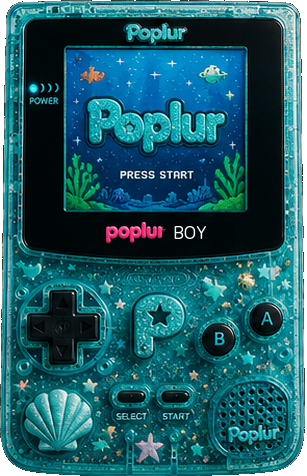
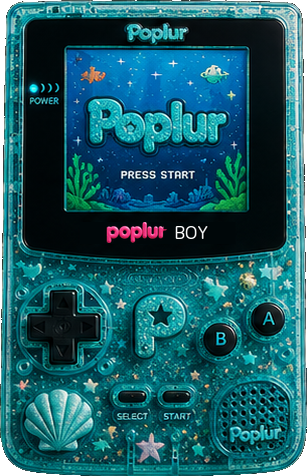
Arcade: haptics on colour change, press feedback, power LED, tighter crop
playPop() on a colour pick and on every control press -- the house
helper, which carries popHaptic() inside it: navigator.vibrate on
Android and the native bridge on iOS, where Safari ignores the web API.
Presses use a lower volume because a player hits these many times a
second.

Power LED overlays the shell's own painted dot and flashes while booting,
then unmounts with the boot. Six beats via steps(), NOT `infinite` -- the
thermal gate allows none, and a light pulsing forever is exactly the idle
work it exists to catch. Its geometry lives in RetroShellSkin beside the
controls so it tracks the art rather than being pinned in the renderer.

Shells re-cropped to their alpha bbox now that the surround is
transparent, so the device reaches the frame edge instead of sitting
inside its own margin.

KNOWN INCOMPLETE, see poplur-arcade-handoff.md:
 - the LED centre is measured but its radius is still by eye; it does not
   sit exactly on the painted dot yet;
 - some shells still show a neighbour's colour at an edge -- the slice is
   better than it was but not clean on all ten;
 - the boot should be an ANIMATED version of the shell's own painted
   splash, not a black panel that replaces it.

diff --git a/src/ArcadeScreen.tsx b/src/ArcadeScreen.tsx
@@ -9,6 +9,7 @@ import {
   type RetroControlId,
 } from './retroShellSkin'
 import type { RetroButton } from './retroEmulator'
+import { playPop } from './pop'
 import styles from './ArcadeScreen.module.css'
 
 // Poplur Arcade — the shell player.
@@ -129,6 +130,10 @@ export default function ArcadeScreen() {
 
   /** Re-boot when the shell changes: a new handheld powers on. */
   const pickSkin = useCallback((id: string) => {
+    // The house pop: sound plus popHaptic(), which is navigator.vibrate on
+    // Android and the native bridge on iOS (Safari ignores the web API). Same
+    // feedback the rest of Poplur gives for a deliberate pick.
+    playPop()
     setSkinId(id)
     chimeOwed.current = false
     setBoot('drop')
@@ -174,6 +179,10 @@ export default function ArcadeScreen() {
     const hit = buttonsAt(e.clientX, e.clientY)
     if (!hit.length) return
     e.preventDefault()
+    // Button feedback: the house pop, quieter than a menu tap because a player
+    // presses these many times a second. popHaptic() rides along inside it, so
+    // the press also ticks on Android and through the native bridge on iOS.
+    playPop(0.3)
     // Capture so a finger sliding off the button still reports here, and so
     // pointerup is guaranteed — otherwise a direction sticks down after the
     // finger is gone, which is the bug releaseAllButtons exists for. Guarded
@@ -239,6 +248,20 @@ export default function ArcadeScreen() {
         onPointerCancel={onPointerUp}
         onContextMenu={e => e.preventDefault()}
       >
+        {/* Power LED: flashes while the handheld boots, then holds lit. Finite
+            (the element unmounts with the boot), because the thermal gate
+            forbids an animation that runs forever. */}
+        {skin.powerLed && boot !== 'done' && (
+          <span
+            className={styles.powerLed}
+            aria-hidden="true"
+            style={{
+              left: pct(skin.powerLed.cx - skin.powerLed.r),
+              top: pct(skin.powerLed.cy - skin.powerLed.r * (SHELL_W / SHELL_H)),
+              width: pct(skin.powerLed.r * 2),
+            }}
+          />
+        )}
         {hasArt
           ? <img className={styles.shellArt} src={skin.art!.shellAsset} alt={`${skin.name} shell`} draggable={false} />
           : <div className={styles.shellFallback} />}

diff --git a/src/retroShellSkin.ts b/src/retroShellSkin.ts
@@ -74,6 +74,10 @@ export interface RetroShellSkin {
   /** Null is still legal: rendering must degrade to a plain frame rather than
    *  crash or draw nothing if a future skin is declared before its art lands. */
   art: RetroShellArt | null
+  /** The power LED on the shell's face. Optional: a shell without one simply
+   *  does not flash. Lives here with the rest of the geometry so it tracks the
+   *  art, exactly like the controls. */
+  powerLed?: RetroCircle
   /** Where the emulator canvas goes. The GBA is 240x160 (3:2); a screen opening
    *  that is not 3:2 will letterbox rather than stretch. */
   screen: RetroRect
@@ -109,6 +113,10 @@ const SHARED_LAYOUT: Omit<RetroShellSkin, 'id' | 'name' | 'family' | 'art'> = {
   // art rather than filling it. That is the artwork's shape, not a bug here,
   // but it is the reason the canvas is object-fit: contain.
   screen: { x: 0.242, y: 0.098, w: 0.611, h: 0.352 },
+  // The lit dot beside the POWER legend, left of the bezel. Centre measured off
+  // the art; the radius is still by eye, because the blob detector kept growing
+  // into the POWER legend next to it. NEEDS A VISUAL CHECK.
+  powerLed: { cx: 0.155, cy: 0.196, r: 0.018 },
   controls: {
     dpad: { bounds: { x: 0.090, y: 0.600, w: 0.245, h: 0.160 }, deadZone: 0.22 },
     a: { cx: 0.905, cy: 0.662, r: 0.056 },

diff --git a/src/ArcadeScreen.module.css b/src/ArcadeScreen.module.css
@@ -168,3 +168,20 @@
 @media (prefers-reduced-motion: reduce) {
   .bootMark { animation-duration: 0.01ms; }
 }
+
+/* Power LED. Sits over the shell's own painted dot and pulses while the
+   handheld boots. Six beats then steady — a finite count, not `infinite`,
+   because the thermal gate allows none and a light that pulses forever is
+   exactly the kind of idle work it exists to catch. */
+.powerLed {
+  position: absolute; z-index: 3;
+  aspect-ratio: 1; border-radius: 50%;
+  background: #ff5ce0;
+  box-shadow: 0 0 6px 2px rgba(255, 92, 224, 0.85), 0 0 14px 5px rgba(255, 92, 224, 0.45);
+  animation: powerFlash 0.4s steps(1, end) 6 both;
+  pointer-events: none;
+}
+@keyframes powerFlash {
+  0%, 49% { opacity: 1; }
+  50%, 100% { opacity: 0.15; }
+}
